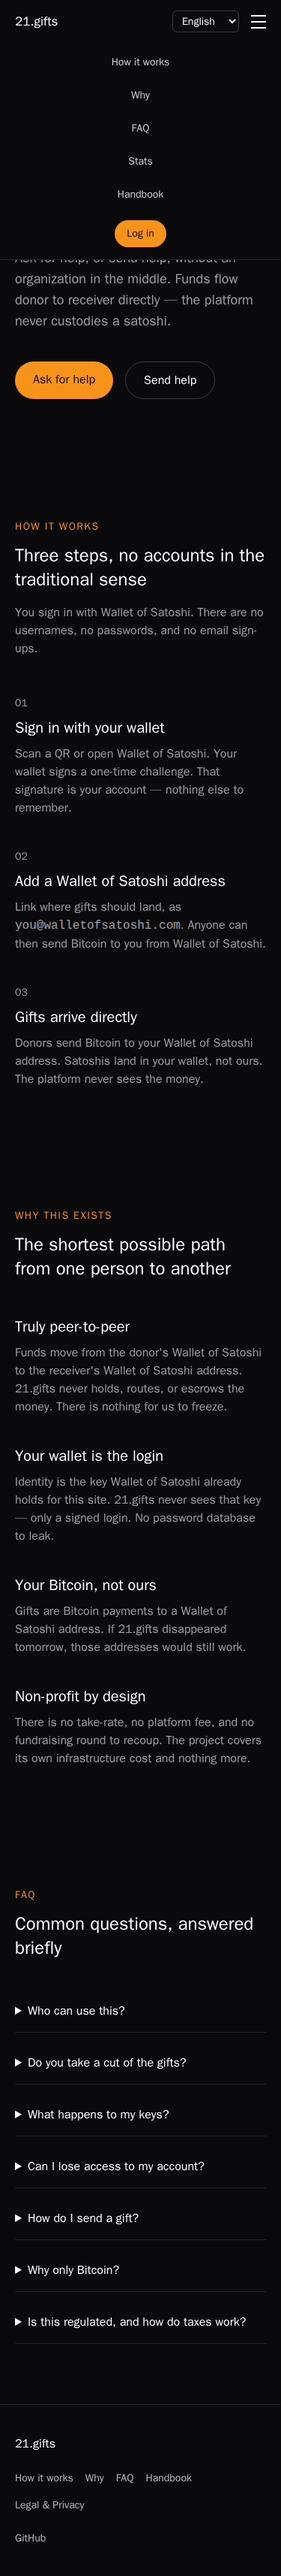
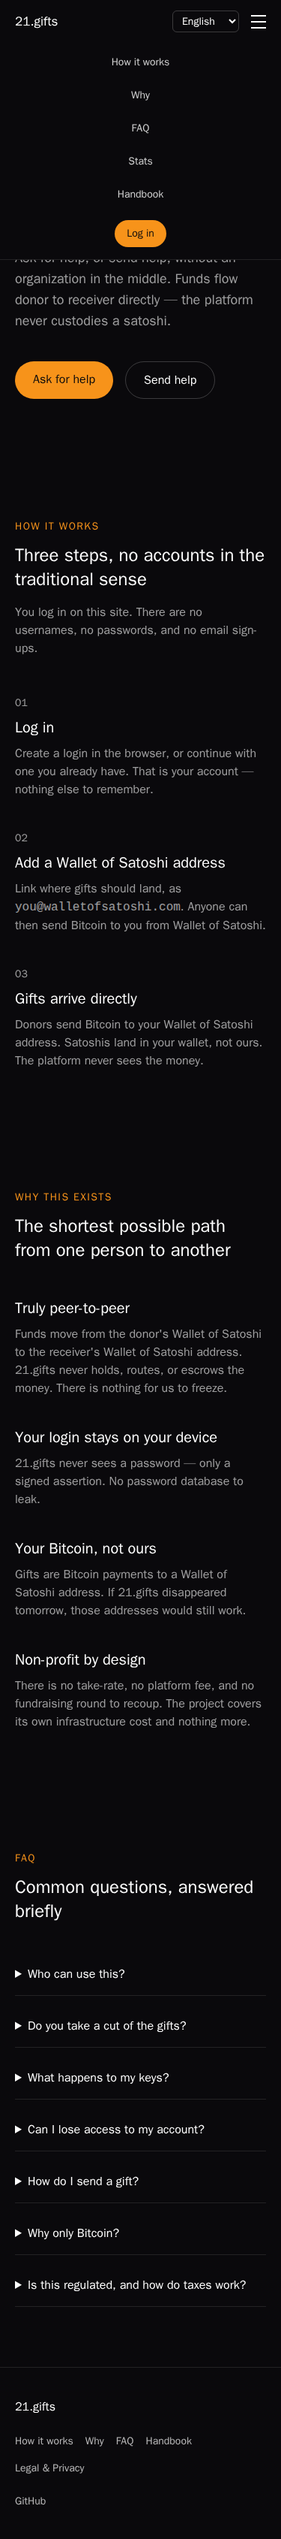
Tighten login copy and exact Log in selectors
Drop tautological login-to-sign-in phrasing on legal and the why
section. Match Playwright Log in clicks with exact names.

diff --git a/src/lib/messages.ts b/src/lib/messages.ts
@@ -43,7 +43,7 @@ const en = {
     "Funds move from the donor's Wallet of Satoshi to the receiver's Wallet of Satoshi address. 21.gifts never holds, routes, or escrows the money. There is nothing for us to freeze.",
   'home.why2Title': 'Your login stays on your device',
   'home.why2Body':
-    'Identity is a login for this site. 21.gifts never sees a password — only a signed assertion. No password database to leak.',
+    '21.gifts never sees a password — only a signed assertion. No password database to leak.',
   'home.why3Title': 'Your Bitcoin, not ours',
   'home.why3Body':
     'Gifts are Bitcoin payments to a Wallet of Satoshi address. If 21.gifts disappeared tomorrow, those addresses would still work.',
@@ -178,7 +178,7 @@ const de = {
     'Das Geld geht von Wallet of Satoshi der gebenden Person an die Wallet of Satoshi address der empfangenden Person. 21.gifts hält, routet oder treuhändert nichts. Es gibt nichts, das wir einfrieren könnten.',
   'home.why2Title': 'Ihr Login bleibt bei Ihnen',
   'home.why2Body':
-    'Identität ist ein Login für diese Seite. 21.gifts sieht kein Passwort — nur eine signierte Anmeldung. Keine Passwort-Datenbank, die lecken kann.',
+    '21.gifts sieht kein Passwort — nur eine signierte Anmeldung. Keine Passwort-Datenbank, die lecken kann.',
   'home.why3Title': 'Ihr Bitcoin, nicht unserer',
   'home.why3Body':
     'Geschenke sind Bitcoin-Zahlungen an eine Wallet of Satoshi address. Würde 21.gifts morgen verschwinden, funktionieren diese Adressen weiter.',
@@ -301,7 +301,7 @@ const es = {
     'Los fondos van de Wallet of Satoshi de quien da a la Wallet of Satoshi address de quien recibe. 21.gifts no retiene, enruta ni deja en depósito el dinero. No hay nada que podamos congelar.',
   'home.why2Title': 'Tu login permanece en tu dispositivo',
   'home.why2Body':
-    'La identidad es un login para este sitio. 21.gifts no ve una contraseña — solo una aserción firmada. No hay base de datos de contraseñas que se pueda filtrar.',
+    '21.gifts no ve una contraseña — solo una aserción firmada. No hay base de datos de contraseñas que se pueda filtrar.',
   'home.why3Title': 'Tu Bitcoin, no el nuestro',
   'home.why3Body':
     'Los regalos son pagos Bitcoin a una Wallet of Satoshi address. Si 21.gifts desapareciera mañana, esas direcciones seguirían funcionando.',
@@ -424,7 +424,7 @@ const fil = {
     'Gumagalaw ang pondo mula sa Wallet of Satoshi ng nagbibigay patungo sa Wallet of Satoshi address ng tumatanggap. Hindi humahawak, nagr-route, o nag-escrow ang 21.gifts. Walang pwedeng i-freeze.',
   'home.why2Title': 'Nasa device mo ang login',
   'home.why2Body':
-    'Ang identidad ay isang login para sa site na ito. Walang password na nakikita ng 21.gifts — signed assertion lang. Walang password database na pwedeng tumagas.',
+    'Walang password na nakikita ng 21.gifts — signed assertion lang. Walang password database na pwedeng tumagas.',
   'home.why3Title': 'Ang Bitcoin mo, hindi sa amin',
   'home.why3Body':
     'Bitcoin payment ang mga handog sa isang Wallet of Satoshi address. Kung mawala ang 21.gifts bukas, gagana pa rin ang mga address na iyon.',

diff --git a/e2e/functions.spec.ts b/e2e/functions.spec.ts
@@ -176,8 +176,8 @@ async function signInWithPasskeyThenAgain(page: Page): Promise<void> {
   await page.getByRole('button', { name: 'Create a login' }).click();
   await expect(page.getByText('Signed in')).toBeVisible({ timeout: 10_000 });
   await page.getByRole('button', { name: 'Log out' }).click();
-  await expect(page.getByRole('button', { name: 'Log in' })).toBeVisible();
-  await page.getByRole('button', { name: 'Log in' }).click();
+  await expect(page.getByRole('button', { name: 'Log in', exact: true })).toBeVisible();
+  await page.getByRole('button', { name: 'Log in', exact: true }).click();
   await expect(page.getByText('Signed in')).toBeVisible({ timeout: 10_000 });
 }
 
@@ -442,7 +442,7 @@ test('Function: LoginPage — login heading is visible', async ({ page }) => {
 test('Function: LoginCard — passkey actions are visible', async ({ page }) => {
   await page.goto('/login');
   await expect(page.getByRole('button', { name: 'Create a login' })).toBeVisible();
-  await expect(page.getByRole('button', { name: 'Log in' })).toBeVisible();
+  await expect(page.getByRole('button', { name: 'Log in', exact: true })).toBeVisible();
 });
 
 test('Function: QrCode — donate shows a Bitcoin payment QR', async ({ page }) => {
@@ -553,7 +553,7 @@ test('Function: LightningAddressForm — link and unlink a Wallet of Satoshi add
 test('Function: clearSession — log out returns to the start action', async ({ page, request }) => {
   await signInViaStub(page, request);
   await page.getByRole('button', { name: 'Log out' }).click();
-  await expect(page.getByRole('button', { name: 'Log in' })).toBeVisible();
+  await expect(page.getByRole('button', { name: 'Log in', exact: true })).toBeVisible();
   expect(await page.evaluate(() => window.localStorage.getItem('21gifts.session'))).toBeNull();
 });
 

diff --git a/src/app/(marketing)/legal/page.tsx b/src/app/(marketing)/legal/page.tsx
@@ -64,7 +64,7 @@ export default function LegalPage(): ReactElement {
         </p>
         <h3 className="text-lg font-semibold">Data in the app</h3>
         <p className="text-white/70">
-          The application on this same origin uses a login to sign in and Wallet of Satoshi to
+          The application on this same origin lets you sign in and uses Wallet of Satoshi to
           receive Bitcoin. It does not hold funds. Bitcoin payments go directly from the
           donor&apos;s Wallet of Satoshi to the receiver&apos;s Wallet of Satoshi address.
         </p>

diff --git a/e2e/login.spec.ts b/e2e/login.spec.ts
@@ -3,7 +3,7 @@ import { expect, test } from '@playwright/test';
 test('login page renders passkey actions only', async ({ page }) => {
   await page.goto('/login');
   await expect(page.getByRole('button', { name: 'Create a login' })).toBeVisible();
-  await expect(page.getByRole('button', { name: 'Log in' })).toBeVisible();
+  await expect(page.getByRole('button', { name: 'Log in', exact: true })).toBeVisible();
   await expect(page.getByRole('button', { name: 'Log in with Wallet of Satoshi' })).toHaveCount(0);
 });
 
